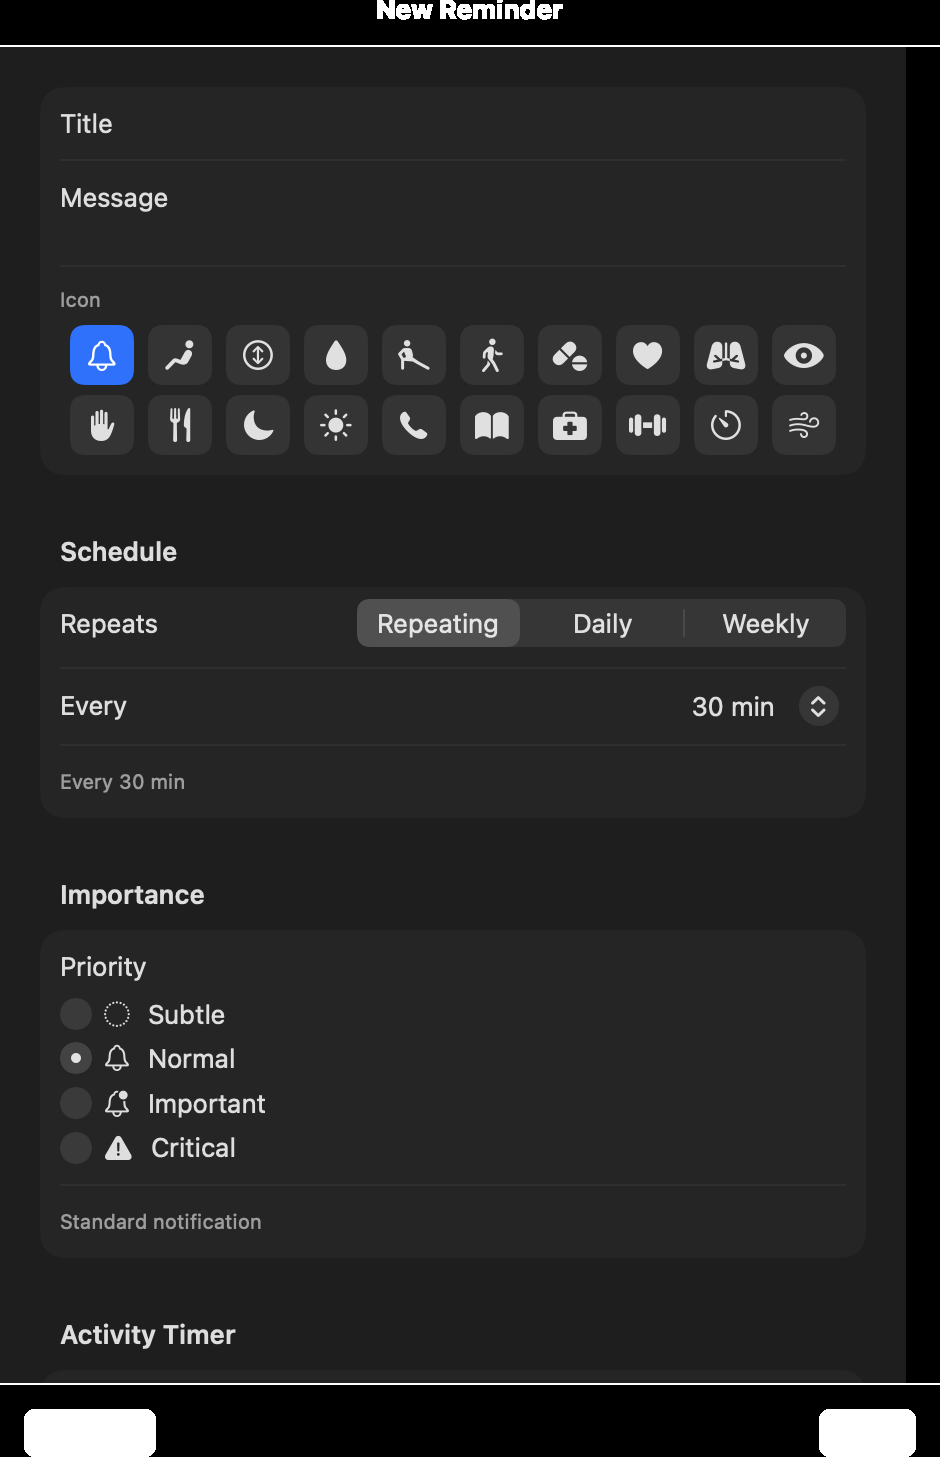
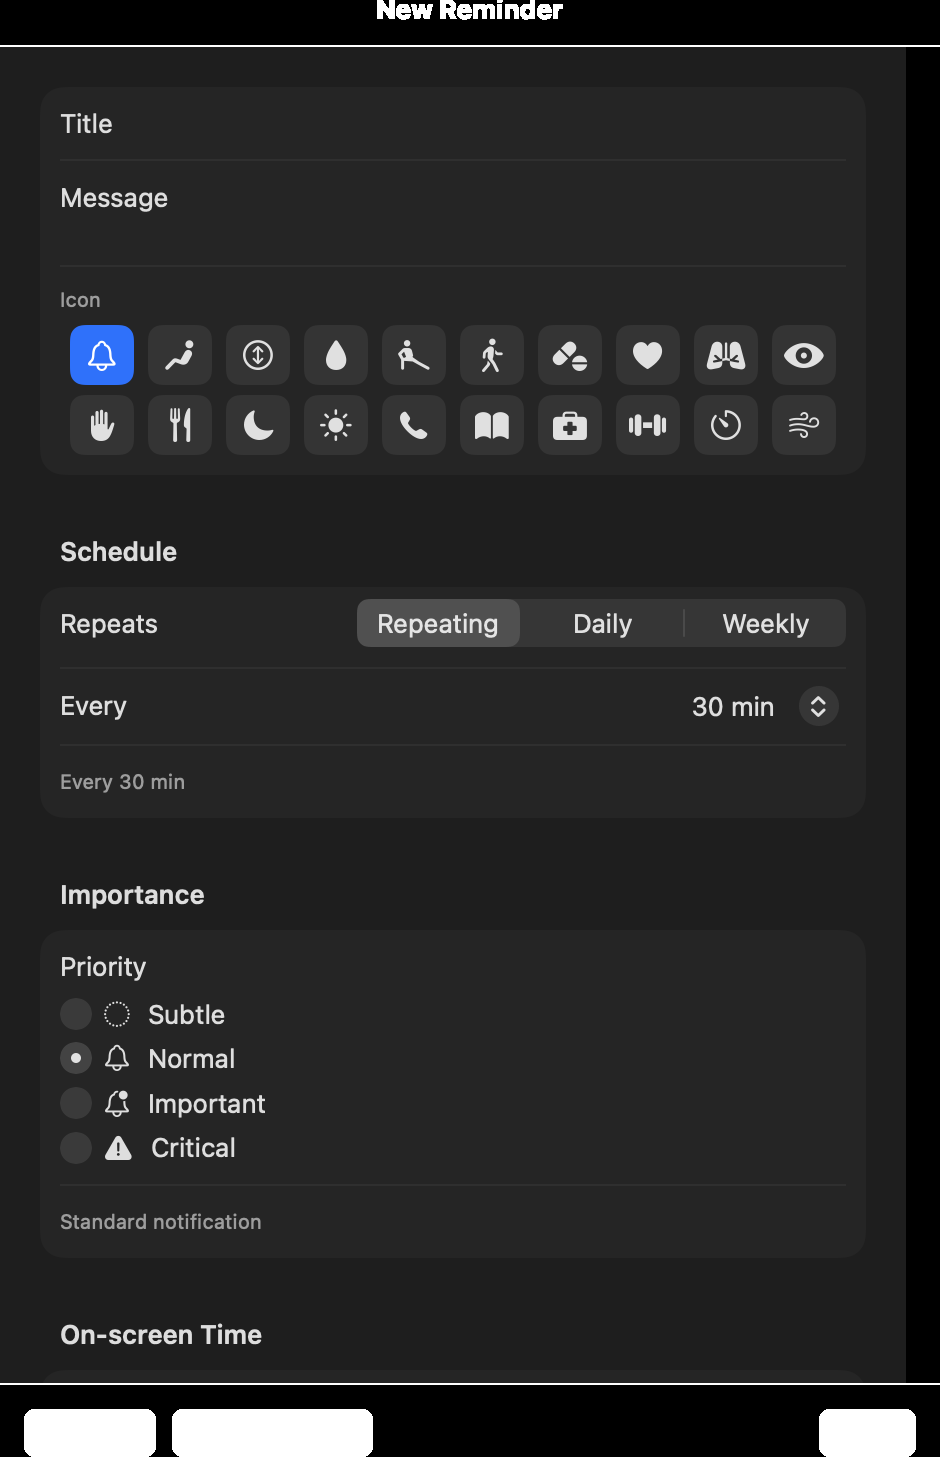
Bump to 1.1.0, refresh screenshots for the new UI

Changed region(s): [[0.1851, 0.9574, 0.4011, 1.0], [0.0617, 0.8957, 0.2777, 0.9266]]

diff --git a/README.md b/README.md
@@ -74,6 +74,15 @@ not a guess.
   <img src="docs/images/editor-new.png" width="440" alt="New Reminder sheet with fields for title and message, a grid of icons, a Repeating/Daily/Weekly schedule picker, and Subtle/Normal/Important/Critical priority options.">
 </p>
 
+## Every setting explains itself
+
+Each preference has an (i) button. They open on a click rather than a hover, so
+they work with head-pointer, switch and keyboard input.
+
+<p align="center">
+  <img src="docs/images/preferences.png" width="620" alt="Preferences tab showing Quiet Hours and Behaviour settings, each row with a small circled i help button beside its label.">
+</p>
+
 ---
 
 ## Priority tiers
